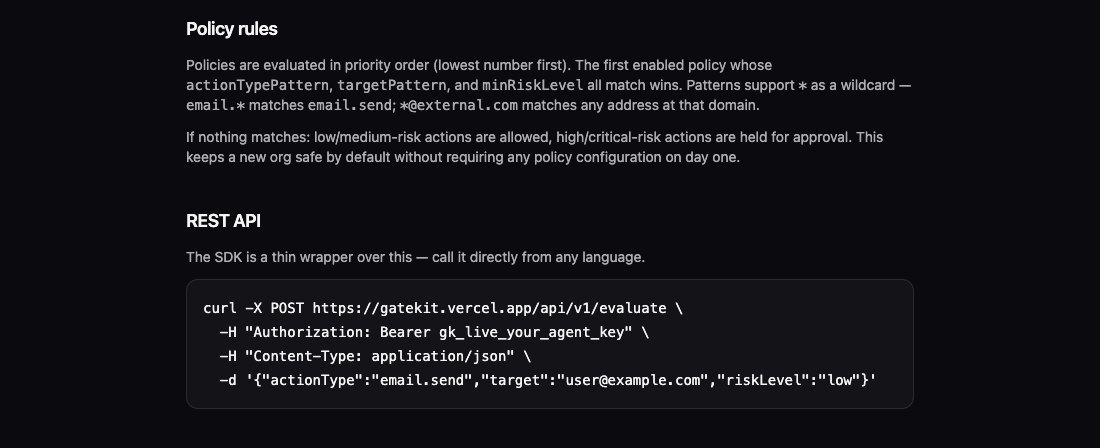
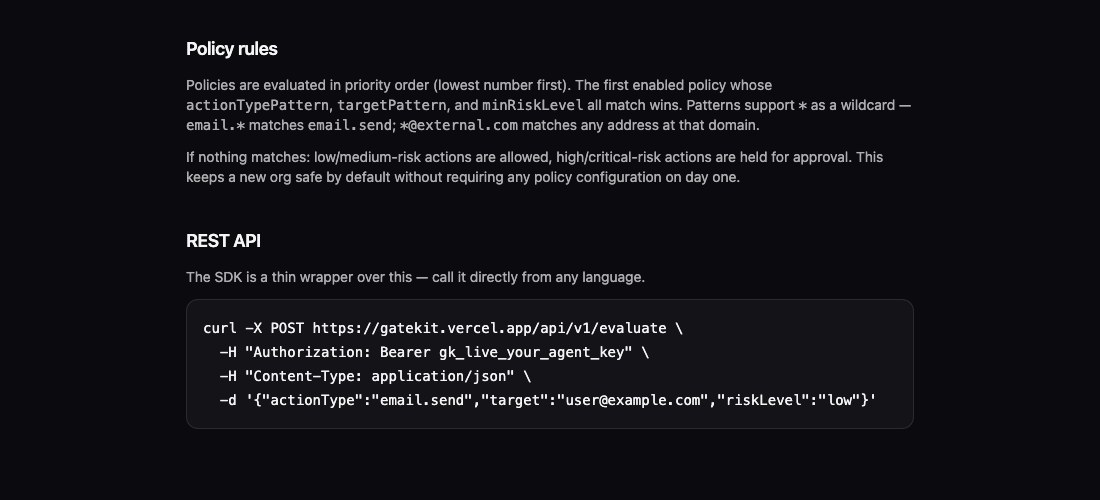
Align README screenshot rows and shorten the promise
Each row of the screenshot grid now shares one aspect ratio, so the cells line up on GitHub, and the header promise fits on one line.

diff --git a/README.md b/README.md
@@ -2,7 +2,7 @@
 
 # Gatekit
 
-**Stop an AI agent's risky action before it runs, put a human in front of the ones that need one, and keep a record nobody can quietly rewrite.**
+**Allow, deny or hold every AI agent action before it runs, with a record nobody can quietly rewrite.**
 
 [Demo](https://gatekit.vercel.app) · [Docs](https://gatekit.vercel.app/docs) · [Measured results](#measured-results) · [How it works](#how-it-works) · [Quick start](#quick-start)
 
@@ -37,18 +37,18 @@ compliance reviewer can check.
 <table>
   <tr>
     <td width="50%"><img src="assets/readme/landing.jpg" alt="Gatekit landing page: headline 'Agents move fast. Gatekit decides faster.' beside an example policy trace in which a high-risk payment.refund matches 'High-risk refunds need finance approval' at priority 35 and is marked APPROVAL REQUIRED."></td>
-    <td width="50%"><img src="assets/readme/sdk.jpg" alt="Landing page SDK section: 'Wrap the action. Keep your stack.' beside a TypeScript snippet that creates a GatekitClient with an API key and base URL, then calls gatekit.guard around a Stripe refund."></td>
+    <td width="50%"><img src="assets/readme/sdk.jpg" alt="Code sample from the Gatekit landing page, refund-agent.ts: create a GatekitClient with an API key and base URL https://gatekit.vercel.app, then call gatekit.guard with a high-risk payment.refund action around a Stripe refund."></td>
   </tr>
   <tr>
     <td><b>Landing page.</b> The trace on the right is a worked example of how one policy decides one action; it is labelled as an example, not live traffic.</td>
     <td><b>One call per action.</b> <code>guard()</code> runs your function only if Gatekit allows it, or once a human approves it.</td>
   </tr>
   <tr>
-    <td><img src="assets/readme/docs-quickstart.jpg" alt="Gatekit documentation page: an Install section explaining that @gatekit/sdk is not on npm yet, with commands to build it from the repository and install the tarball, followed by a quick start that creates a client with baseUrl https://gatekit.vercel.app and guards an email.send call."></td>
+    <td><img src="assets/readme/docs-quickstart.jpg" alt="Gatekit documentation, quick start: create a GatekitClient with baseUrl https://gatekit.vercel.app and guard an email.send call; guard() runs the function if allowed, throws GatekitDeniedError if denied, and polls if held for approval."></td>
     <td><img src="assets/readme/docs-rest.jpg" alt="Gatekit documentation page: the policy rules section explaining priority order, wildcard patterns and the default hold for high and critical risk, followed by a curl example posting an email.send action to https://gatekit.vercel.app/api/v1/evaluate with a bearer agent key."></td>
   </tr>
   <tr>
-    <td><b>Docs, install and quick start.</b> The SDK is not published to npm yet, and the docs say so instead of showing an install that fails.</td>
+    <td><b>Docs quick start.</b> Every example sets <code>baseUrl</code> to the real host, and the install section says plainly that the SDK is not on npm yet.</td>
     <td><b>Docs, rules and REST.</b> The SDK is a thin wrapper over one HTTP endpoint, so any language can call it.</td>
   </tr>
 </table>

diff --git a/assets/readme/README.md b/assets/readme/README.md
@@ -42,13 +42,15 @@ tools' Animations panel.
 
 ## Screenshots
 
-`landing.jpg` (1440x800), `sdk.jpg` (1440x440), `docs-quickstart.jpg`
-(1100x920) and `docs-rest.jpg` (1100x448) were captured on 2026-11-19 from a local
+`landing.jpg` (1440x800), `sdk.jpg` (825x458, the landing page's code
+sample), `docs-quickstart.jpg` (1100x500) and `docs-rest.jpg` (1100x500) were
+captured on 2026-11-19 from a local
 production build of this branch (`next build && next start`), not from the
 live deployment, which still runs the previous version. The build used
 `NEXT_PUBLIC_SITE_URL=https://gatekit.vercel.app` so the docs show the real
 host, and inert Clerk keys so public pages render without a sign-in. Headless
-Chrome at device scale 1; crops only, no retouching.
+Chrome at device scale 1; crops only, no retouching. Each row of the README
+grid shares one aspect ratio so the table lines up.
 
 Dashboard screenshots (policies, approvals, audit log) need a signed-in
 organization and are not included yet.
